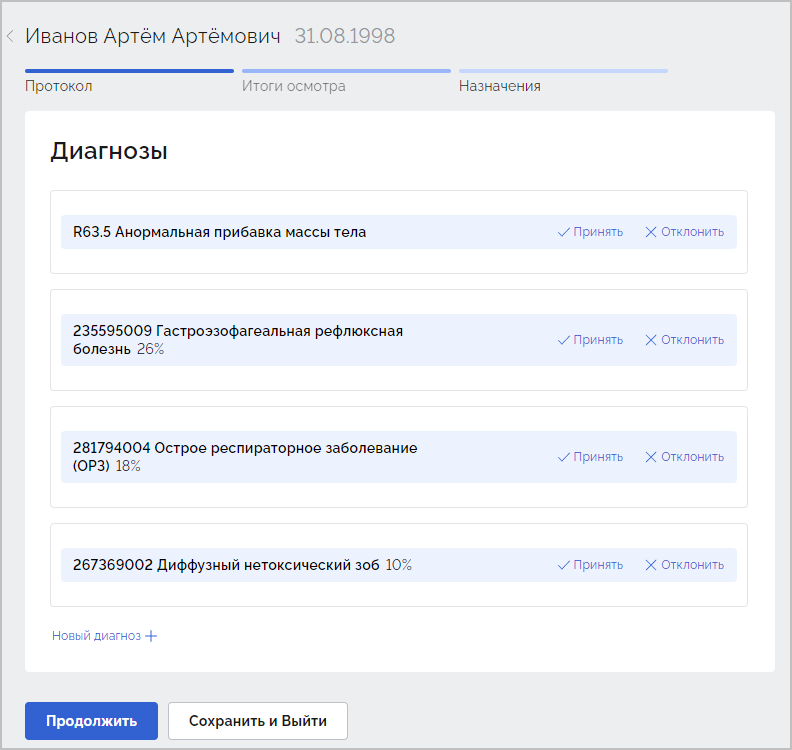
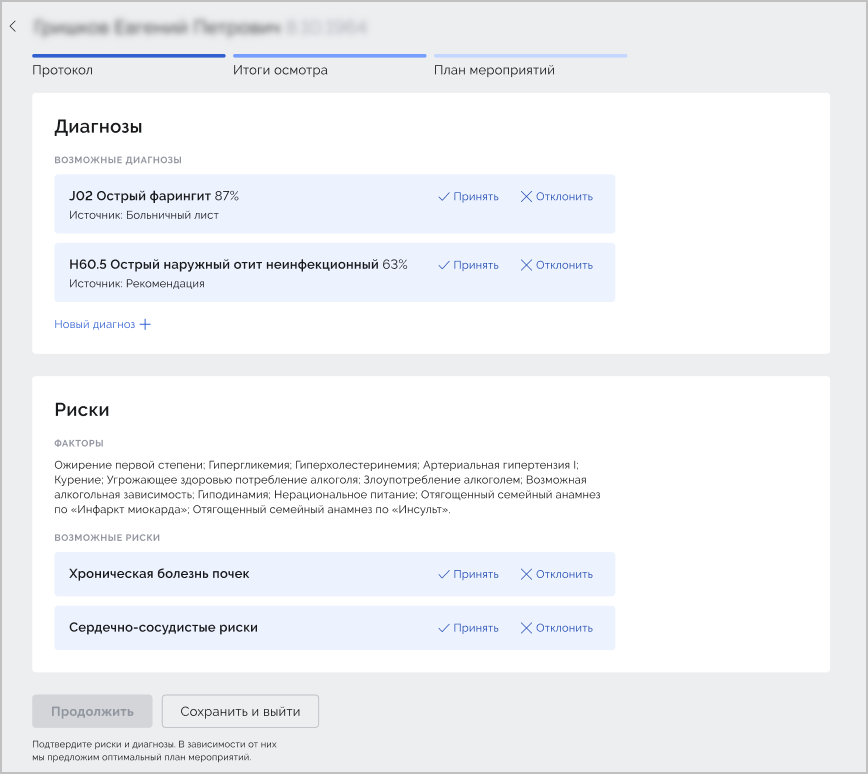
Обновлены разделы "Добавление прав доступа", "Изменение прав доступа", "Диспансерное наблюдение", "Проведение приема"

diff --git a/Профмед. Руководство пользователя/Профмед. Руководство пользователя.md b/Профмед. Руководство пользователя/Профмед. Руководство пользователя.md
@@ -217,6 +217,34 @@
 
 Данные сотрудника будут удалены из системы.
 
+#### Добавление прав доступа
+
+Для добавления шаблон прав доступа перейдите на вкладку **Права доступа** (1) и нажмите кнопку **Новый шаблон** (2):
+
+![](img/prava1.png)
+
+Откроется окно **Новый шаблон**. Введите название роли (как правило должность медицинского работника) (1) и установите нужные переключатели в положение "Включено" (2):
+
+![](img/prava2.png)
+
+Нажмите кнопку **Создать**:
+
+![](img/prava3.png)
+
+На вкладке **Права доступа** отобразится созданный шаблон прав:
+
+![](img/prava4.png)
+
+Для удаления шаблона нажмите на значок с изображением корзины. После удаления роли восстановить её будет невозможно.
+
+> При удалении роли которая уже была установлена у медицинских работников, данная роль будет удалена из карточки медицинского работника но права, присущие данной роли, будут сохранены.
+
+Для внесения изменений в существующую роль нажмите на значок с изображением карандаша. В открывшемся окне установите необходимые переключатели в требуемые режимы и нажмите кнопку **Сохранить**:
+
+![](img/prava5.png)
+
+> После внесения изменений в права определенной роли, данные права автоматически изменятся для всех медицинских работников у которых была выбрана данная роль.
+
 ### Настройка учетных записей сотрудников
 
 Раздел **Настройки** обеспечивает возможность работы с данными пользователей системы, а именно: 
@@ -339,7 +367,17 @@
 
 Для каждого пользователя системы необходимо установить определенные права доступа к функциональным возможностям системы. По умолчанию все права пользователя системы отключены.
 
-Для настройки прав доступа конкретного пользователя системы в его карточке перейдите в раздел **Права доступа**. Отобразится блок с перечнем доступных возможностей. Укажите роль специалиста (1) в зависимости от выбора которой будут установлены определенные права пользователя (2):
+Для настройки прав доступа конкретного пользователя системы в его карточке перейдите в раздел **Права доступа**. Отобразится блок с перечнем доступных возможностей. Существует 2 способа настройки прав пользователя.
+
+Способ 1. Выберите роль специалиста (1) в зависимости от выбора которой будут установлены определенные права пользователя (2):
+
+![](img/nastr17.png)
+
+При выборе существующей роли права пользователя изменить не получится. Для изменения прав пользователя для существующей роли нажмите кнопку **Редактировать роль**. 
+
+> После внесения изменений в права определенной роли, данные права автоматически изменятся для всех медицинских работников у которых была выбрана данная роль.
+
+Способ 2. Не выбирая роль специалиста (1) установите вручную все требуемые переключатели (2):
 
 ![](img/nastr7.png)
 
@@ -439,7 +477,11 @@
 
 ##### Блок "Диагнозы, риски"
 
-Блок **Диагнозы, риски** включает предварительные и подтвержденные диагнозы, которые были добавлены медицинским работником во время приема или автоматически предложены системой а также риски, принятые медицинским работником во время приема либо рассчитанные системой автоматически.
+Блок **Диагнозы, риски** включает предварительные и подтвержденные диагнозы, которые были добавлены медицинским работником во время приема или автоматически предложены системой а также риски, принятые медицинским работником во время приема либо рассчитанные системой автоматически. 
+
+Также блок содержит диагнозы и риски, которые были добавлены путем импорта ранее подтвержденных врачом диагнозов. Данные диагнозы и риски автоматически обрабатываются и проверяются. Если пациент с данным диагнозом или риском подлежит диспансерному наблюдению — устанавливается отметка **Новые диагнозы (риски), требующие подтверждения**:
+
+![](img/pacient4.png)
 
 Для просмотра ответов сотрудника, по которым были рассчитаны риски, нажмите на ссылку **Факторы рисков**. Откроется окно с результатами:
 
@@ -600,6 +642,7 @@
 - возможные диагнозы, рассчитанные на основе заполненного протокола осмотра или по результатам анкетирования;
 - диагнозы, ранее поставленные пациенту, с возможностью снятия с учета;
 - новые диагнозы, добавленные вручную после осмотра;
+- источники данных для формирования диагнозов;
 - возможные риски, рассчитанные на основе заполненного протокола осмотра или по результатам анкетирования;
 - ранее принятые риски.
 
